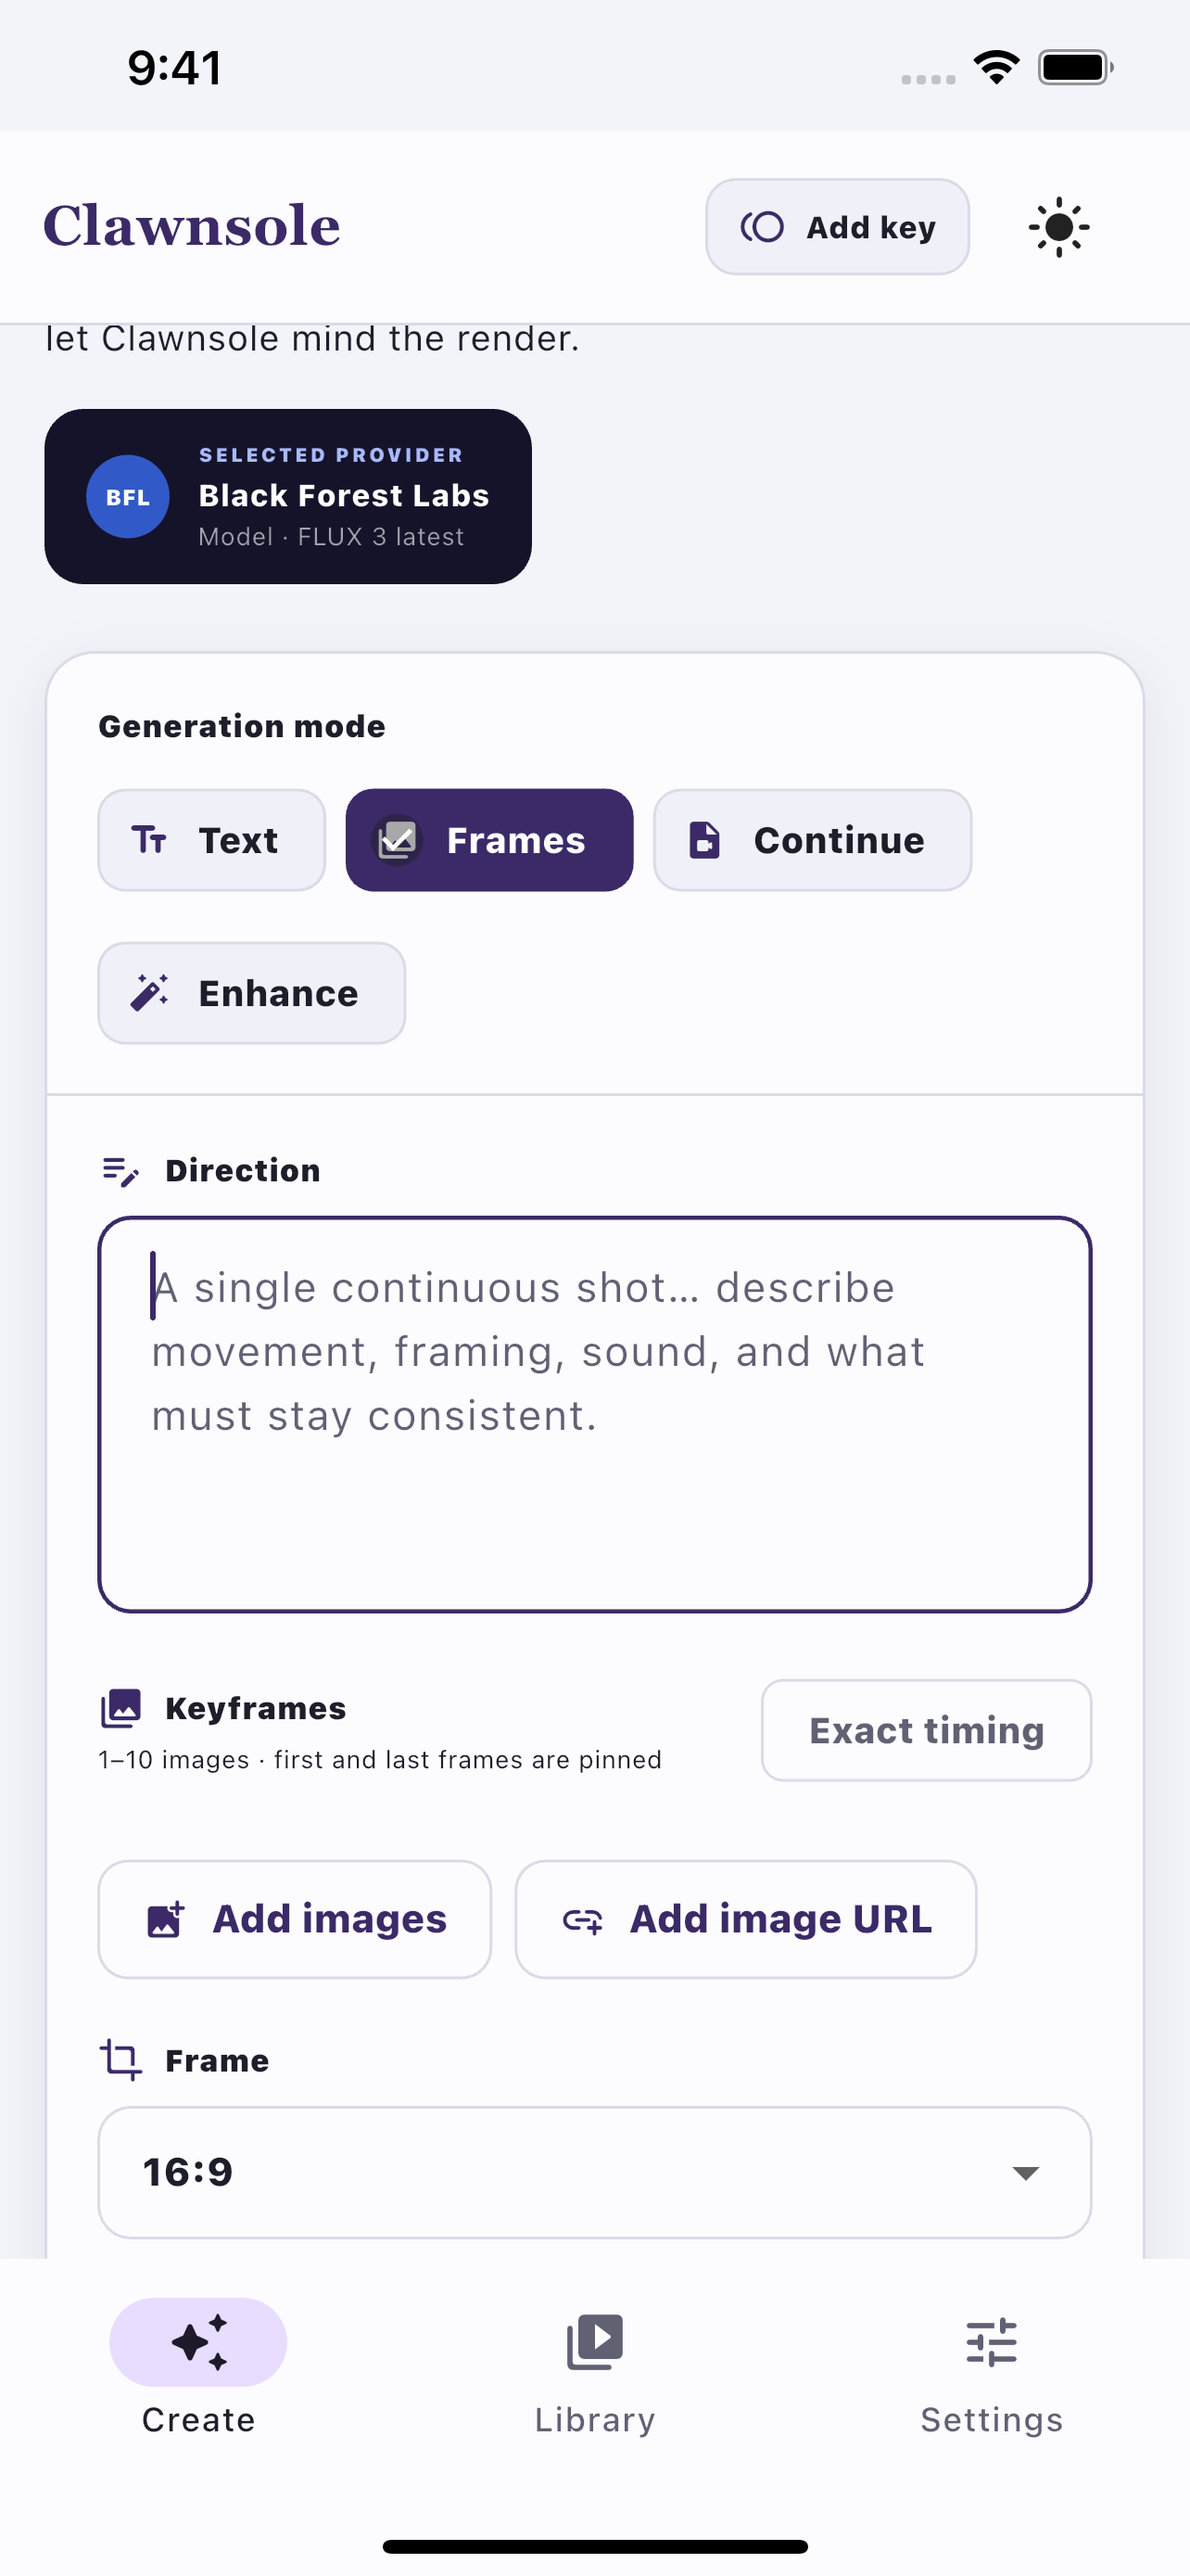
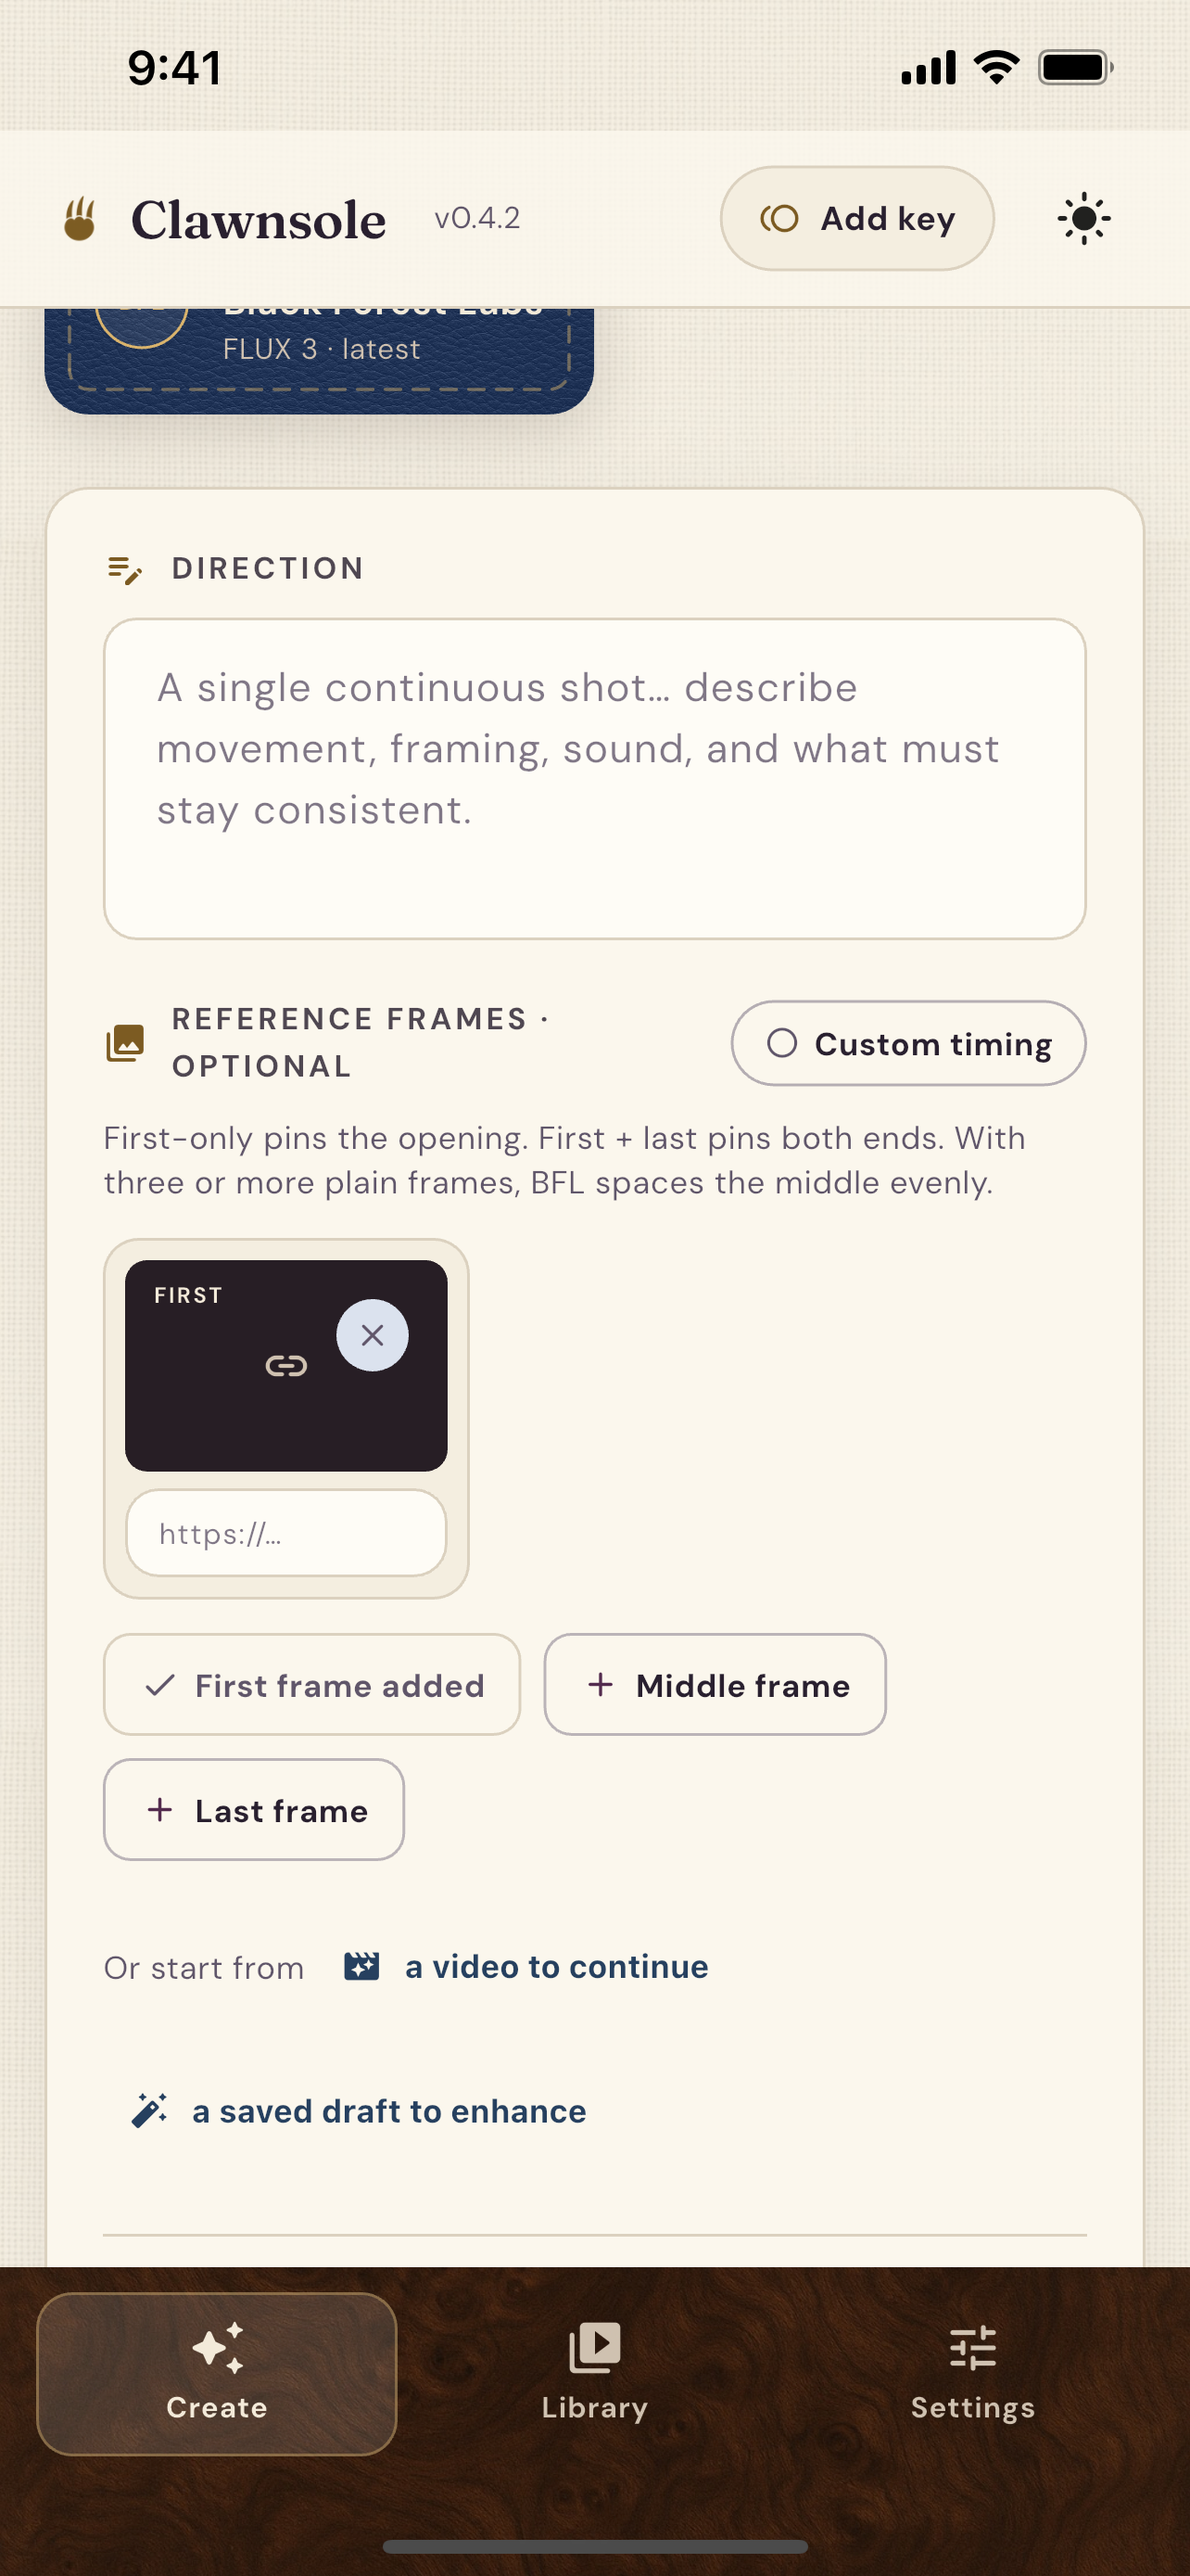
Add fresh iPhone screenshots to README

diff --git a/README.md b/README.md
@@ -21,6 +21,14 @@ Clawnsole is a local-first Flutter video generation workspace with a premium,
 midcentury-inspired interface. It currently supports Black Forest Labs' FLUX 3
 video API and keeps provider boundaries explicit for future video services.
 
+## iPhone
+
+<p align="center">
+  <img src="docs/app-store/iphone/01-create.png" alt="Create an AI video in Clawnsole on iPhone" width="31%">
+  <img src="docs/app-store/iphone/02-frames.png" alt="Configure reference frames in Clawnsole on iPhone" width="31%">
+  <img src="docs/app-store/iphone/03-library.png" alt="Browse the local film library in Clawnsole on iPhone" width="31%">
+</p>
+
 ## What it does
 
 - Text-to-video, image-to-video, video continuation, and draft enhancement
